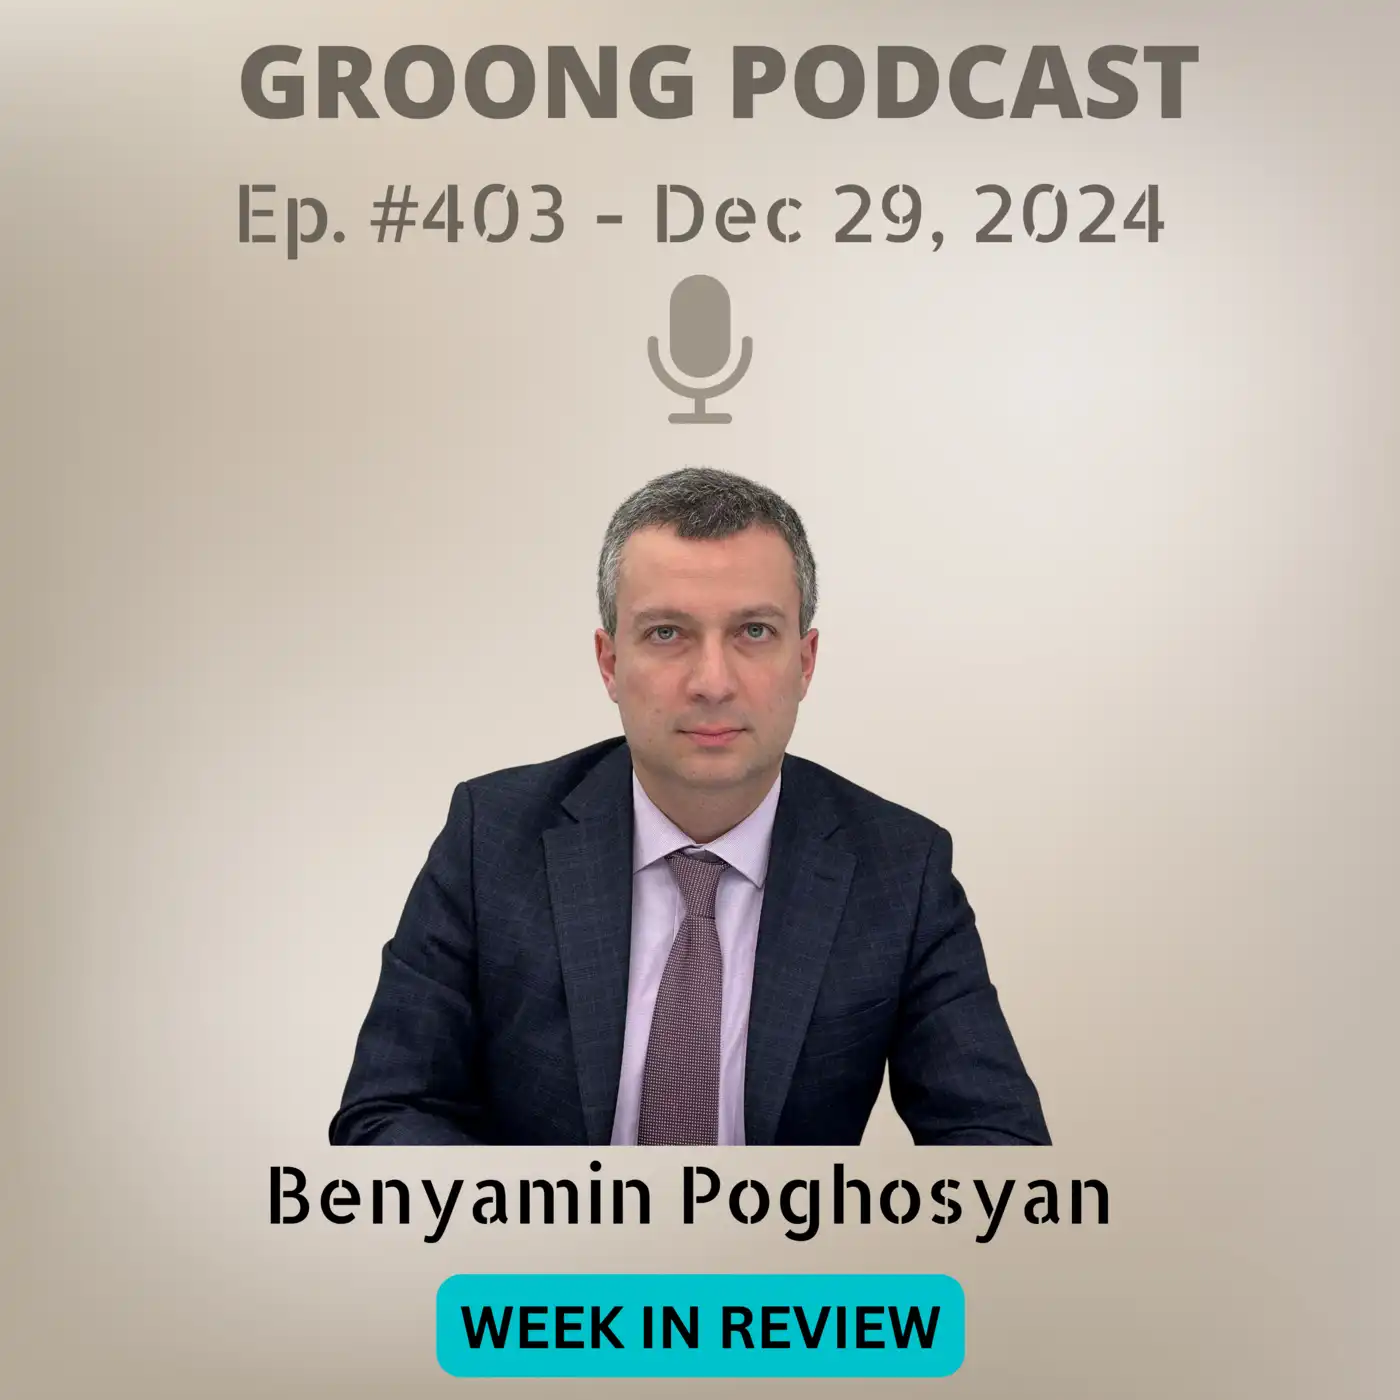
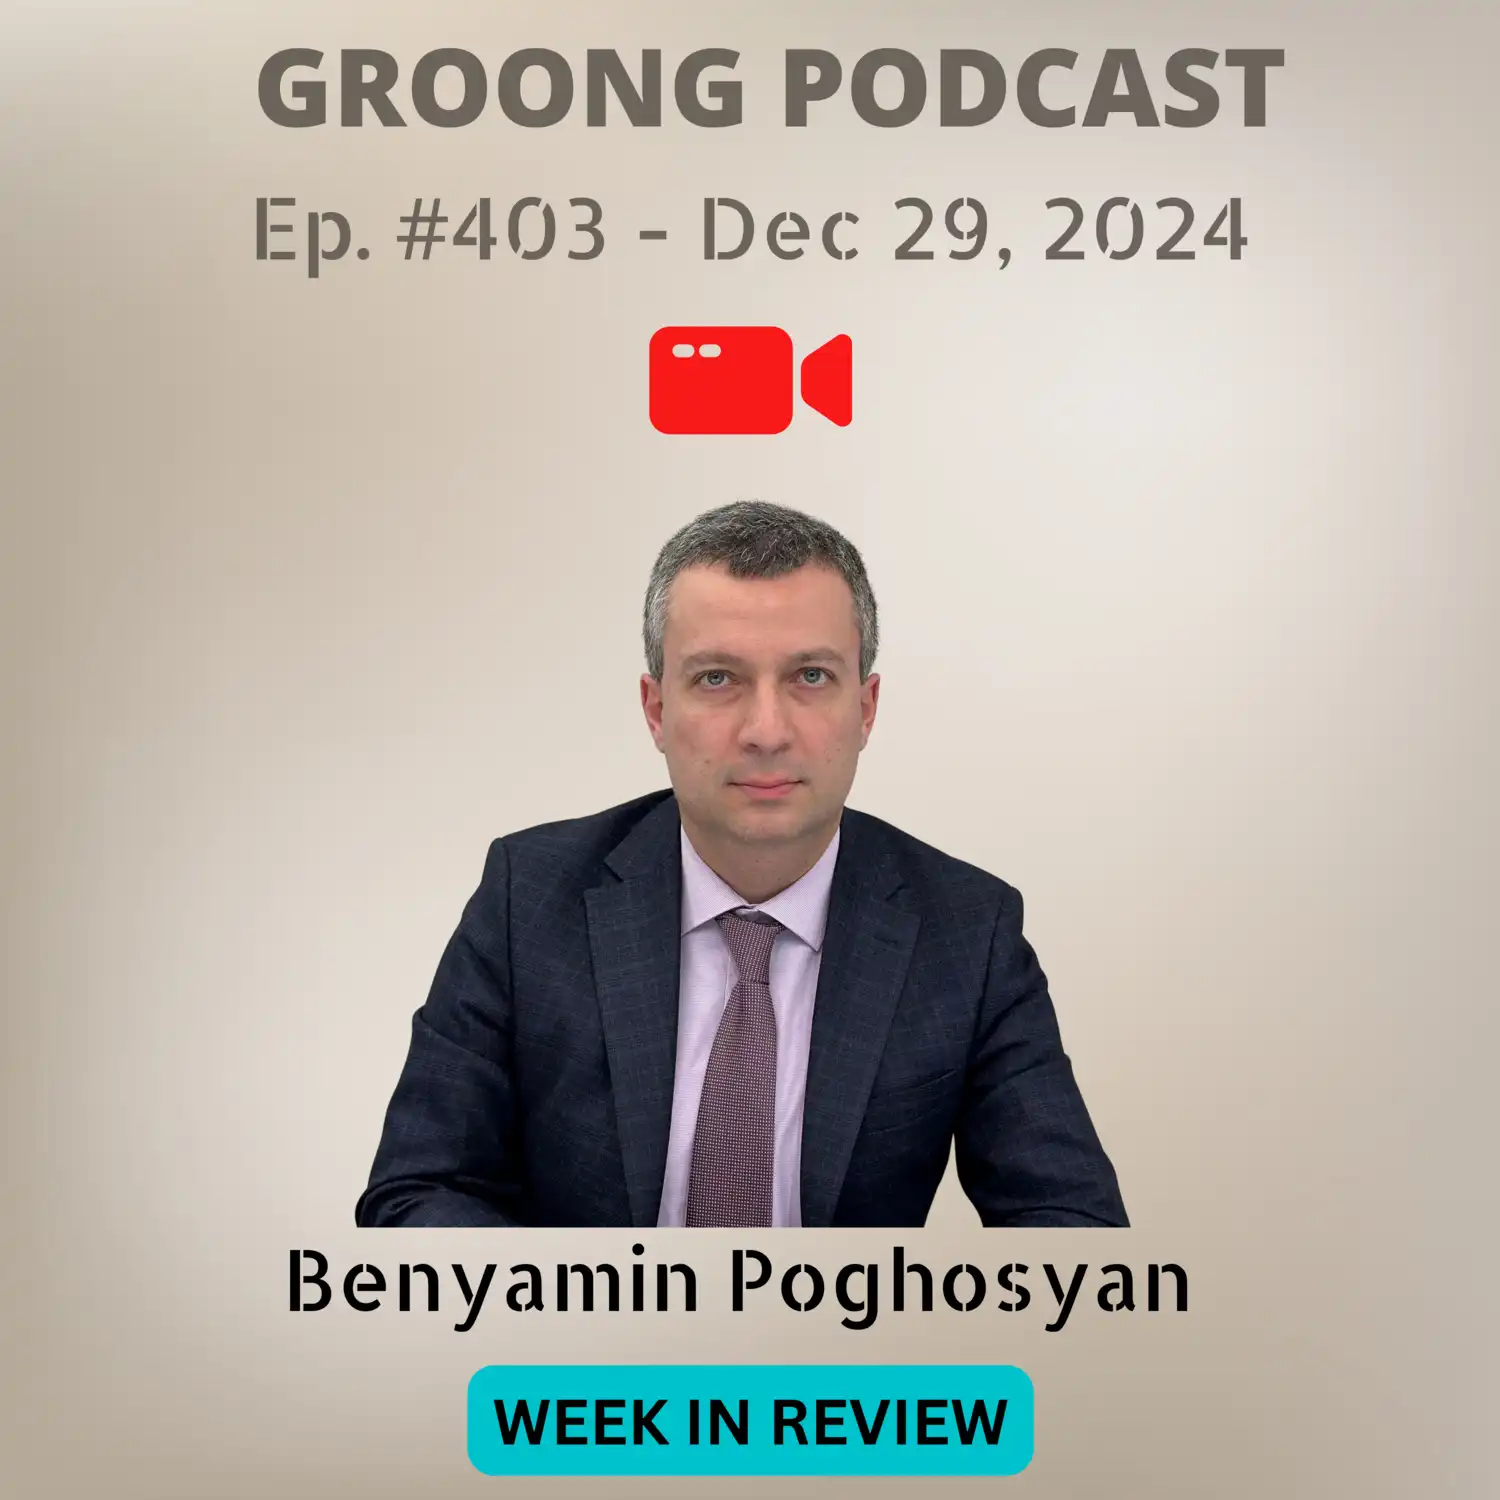
Adding episode 403

diff --git a/content/episode/403-benyamin-poghosyan-pashinyan-lies-on-negotiations-17-points-to-an-agreement-2024-review-2025-outlook.md b/content/episode/403-benyamin-poghosyan-pashinyan-lies-on-negotiations-17-points-to-an-agreement-2024-review-2025-outlook.md
@@ -1,15 +1,15 @@
 +++
 
-Date = 2024-12-31T00:15:00-04:00
-upcoming = true
+Date = 2025-01-01T10:00:00-04:00
+upcoming = false
 
 title = "Benyamin Poghosyan - Pashinyan Lies on Decades of Negotiations, 17 Points to an Agreement, 2024 Review and 2025 Outlook | Ep 403 - Dec 29, 2024"
 subtitle = "Groong Week in Review - December 29, 2024"
 
-podcast_file = ""
-podcast_bytes = ""
-podcast_duration = ""
-youtube = ""
+podcast_file = "16366354-benyamin-poghosyan-pashinyan-lies-on-decades-of-negotiations-17-points-to-an-agreement-2024-review-and-2025-outlook-ep-403-dec-29-2024.mp3"
+podcast_bytes = "43322226"
+podcast_duration = "3607"
+youtube = "NVDZ---WZ0U"
 
 episode_image = "img/episode/403/thumbnail-403.webp"
 episode_banner = "img/episode/403/banner-403.webp"
@@ -38,13 +38,60 @@ Description = """
 * 17 Points to an Agreement
 * 2024 Review and 2025 Outlook
 
-
 Episode 403 | Recorded: December 31, 2024
 """
 
 +++
 
+This is the final episode of 2024 for the Armenian News Network, Groong, featuring Dr. Benyamin Poghosyan, Chairman of the Center for Political and Economic Strategic Studies. In this Week in Review episode, we delve into a comprehensive discussion of pivotal topics that have defined the past year. These include Nikol Pashinyan's controversial claims about past negotiations on Artsakh, the evolving dynamics of Armenia-Azerbaijan relations, and the broader implications of these developments for the region and beyond. 
 
+As we close out the year, we also reflect on the most significant events of 2024 and consider what lies ahead in 2025. This engaging episode provides expert insights and thought-provoking analysis, offering listeners a detailed understanding of the current geopolitical landscape.
+
+---
+
+# **Topics Covered**
+
+- Pashinyan’s claims about decades of negotiations on Artsakh and their historical context
+- Ilham Aliyev's latest demands, including constitutional changes and their strategic implications
+- The dissolution of the OSCE Minsk Group: motivations and consequences for regional diplomacy
+- Summary and analysis of the "17 Points to an Agreement" framework and its unresolved issues
+- Reflections on the major political, economic, and social stories that shaped 2024
+- Key predictions for 2025, focusing on the geopolitical future of Armenia, Azerbaijan, Iran, Turkey, and the broader South Caucasus region
+
+---
+
+# **Key Questions Discussed**
+
+1. Why has Nikol Pashinyan made contentious statements about past negotiations, and what are the broader implications of these assertions for Armenia's domestic and foreign policy?
+2. What do Ilham Aliyev's additional demands indicate about Azerbaijan’s long-term strategy in the region, and how might these demands influence future peace talks?
+3. How do Russia’s statements on dissolving the OSCE Minsk Group reflect its shifting priorities in the South Caucasus, and what does this mean for Armenia's alliances?
+4. What are the unresolved points in the Armenia-Azerbaijan peace agreement framework, and how might they affect the likelihood of a lasting resolution?
+5. How will regional geopolitics, particularly developments in Iran and Ukraine, shape the landscape of the South Caucasus and beyond in 2025?
+6. What lessons can be drawn from the political and economic events of 2024 to better anticipate future challenges?
+
+---
+
+# **Links Referenced During the Show**
+
+- [Episode 403 on YouTube](https://youtu.be/NVDZ---WZ0U)
+- [Episode 403 Show Notes](https://podcasts.groong.org/403)
+- Related episodes: [Episode 300](https://podcasts.groong.org/300) and [Episode 347](https://podcasts.groong.org/347)
+
+---
+
+# **Other Resources**
+
+- [Link Tree](https://linktr.ee/groong)
+- [Support Groong on Patreon](https://www.patreon.com/ann_groong)
+- [Buy Me a Coffee](https://www.buymeacoffee.com/groong)
+
+---
+
+# **Closing Remarks**
+
+This episode concludes a remarkable year for the Groong podcast, marking our 103rd show in 2024. Our discussions aim to deliver objective and nuanced perspectives on critical regional and global issues, making this platform an invaluable resource for diplomats, experts, and engaged audiences alike. 
+
+We thank our listeners for their continued support and look forward to more impactful conversations in the year ahead. Happy New Year to all, and here’s to a 2025 filled with insightful dialogue and meaningful connections.
 
 # Wrap-up
 
